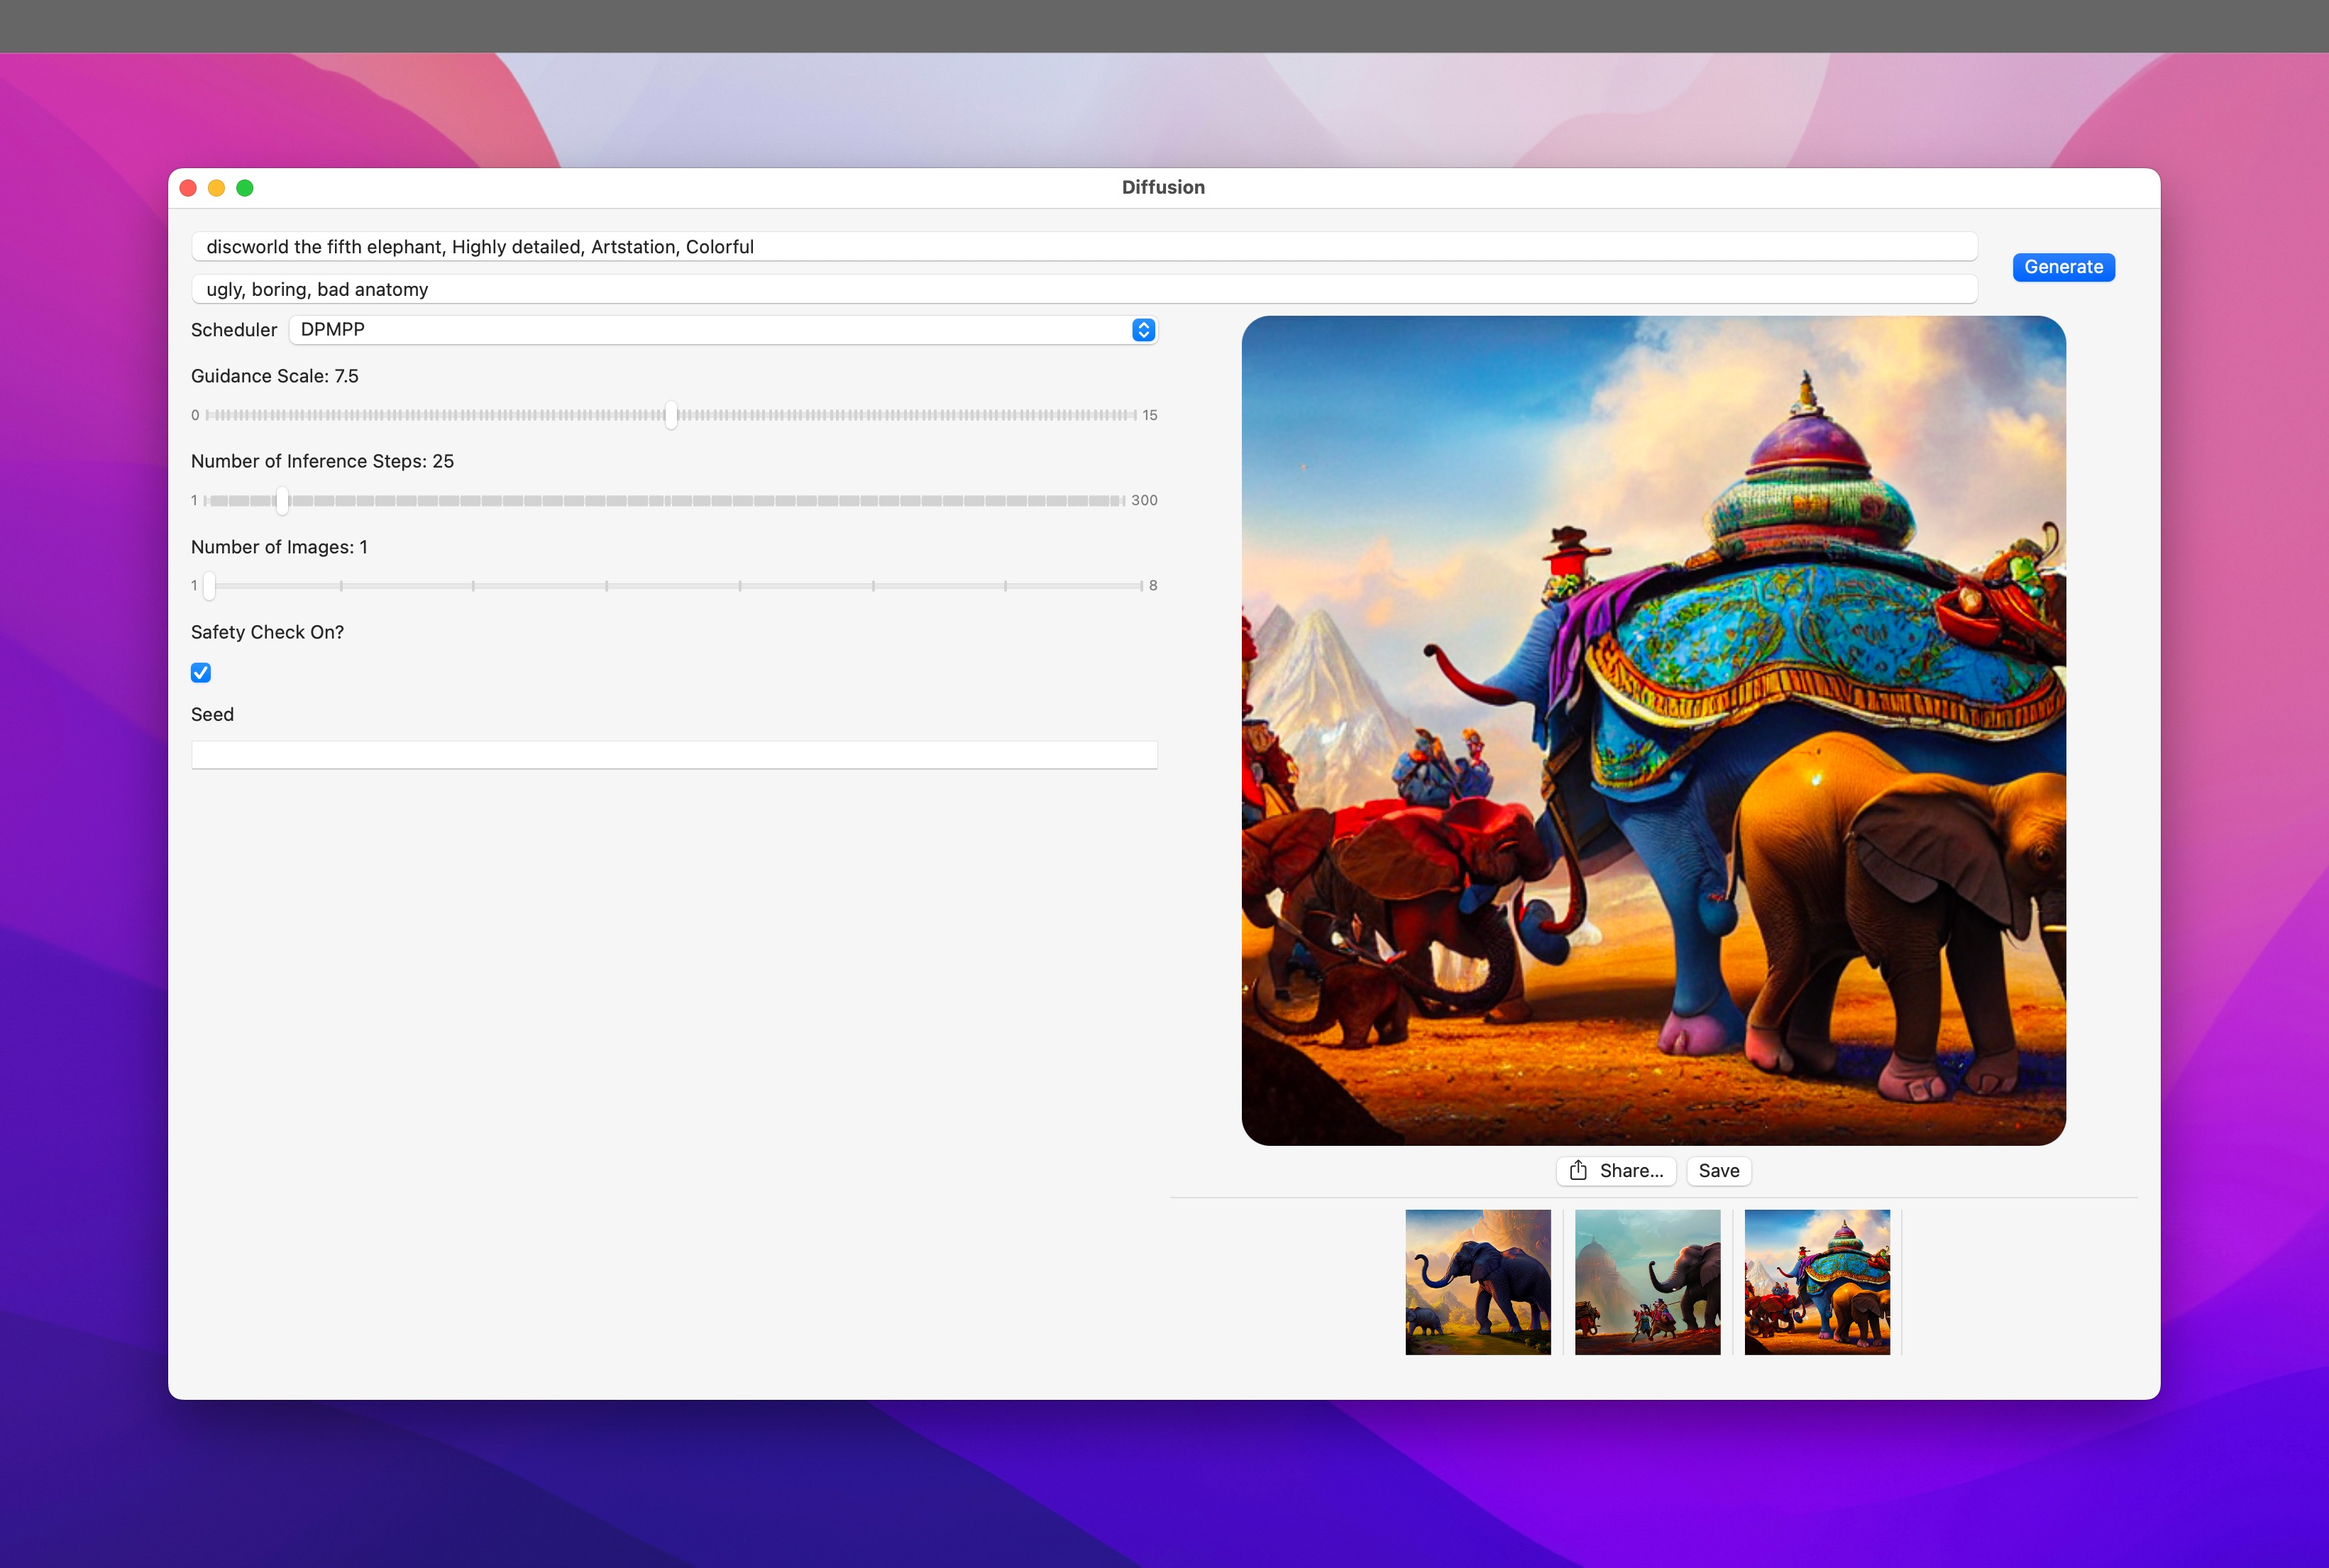
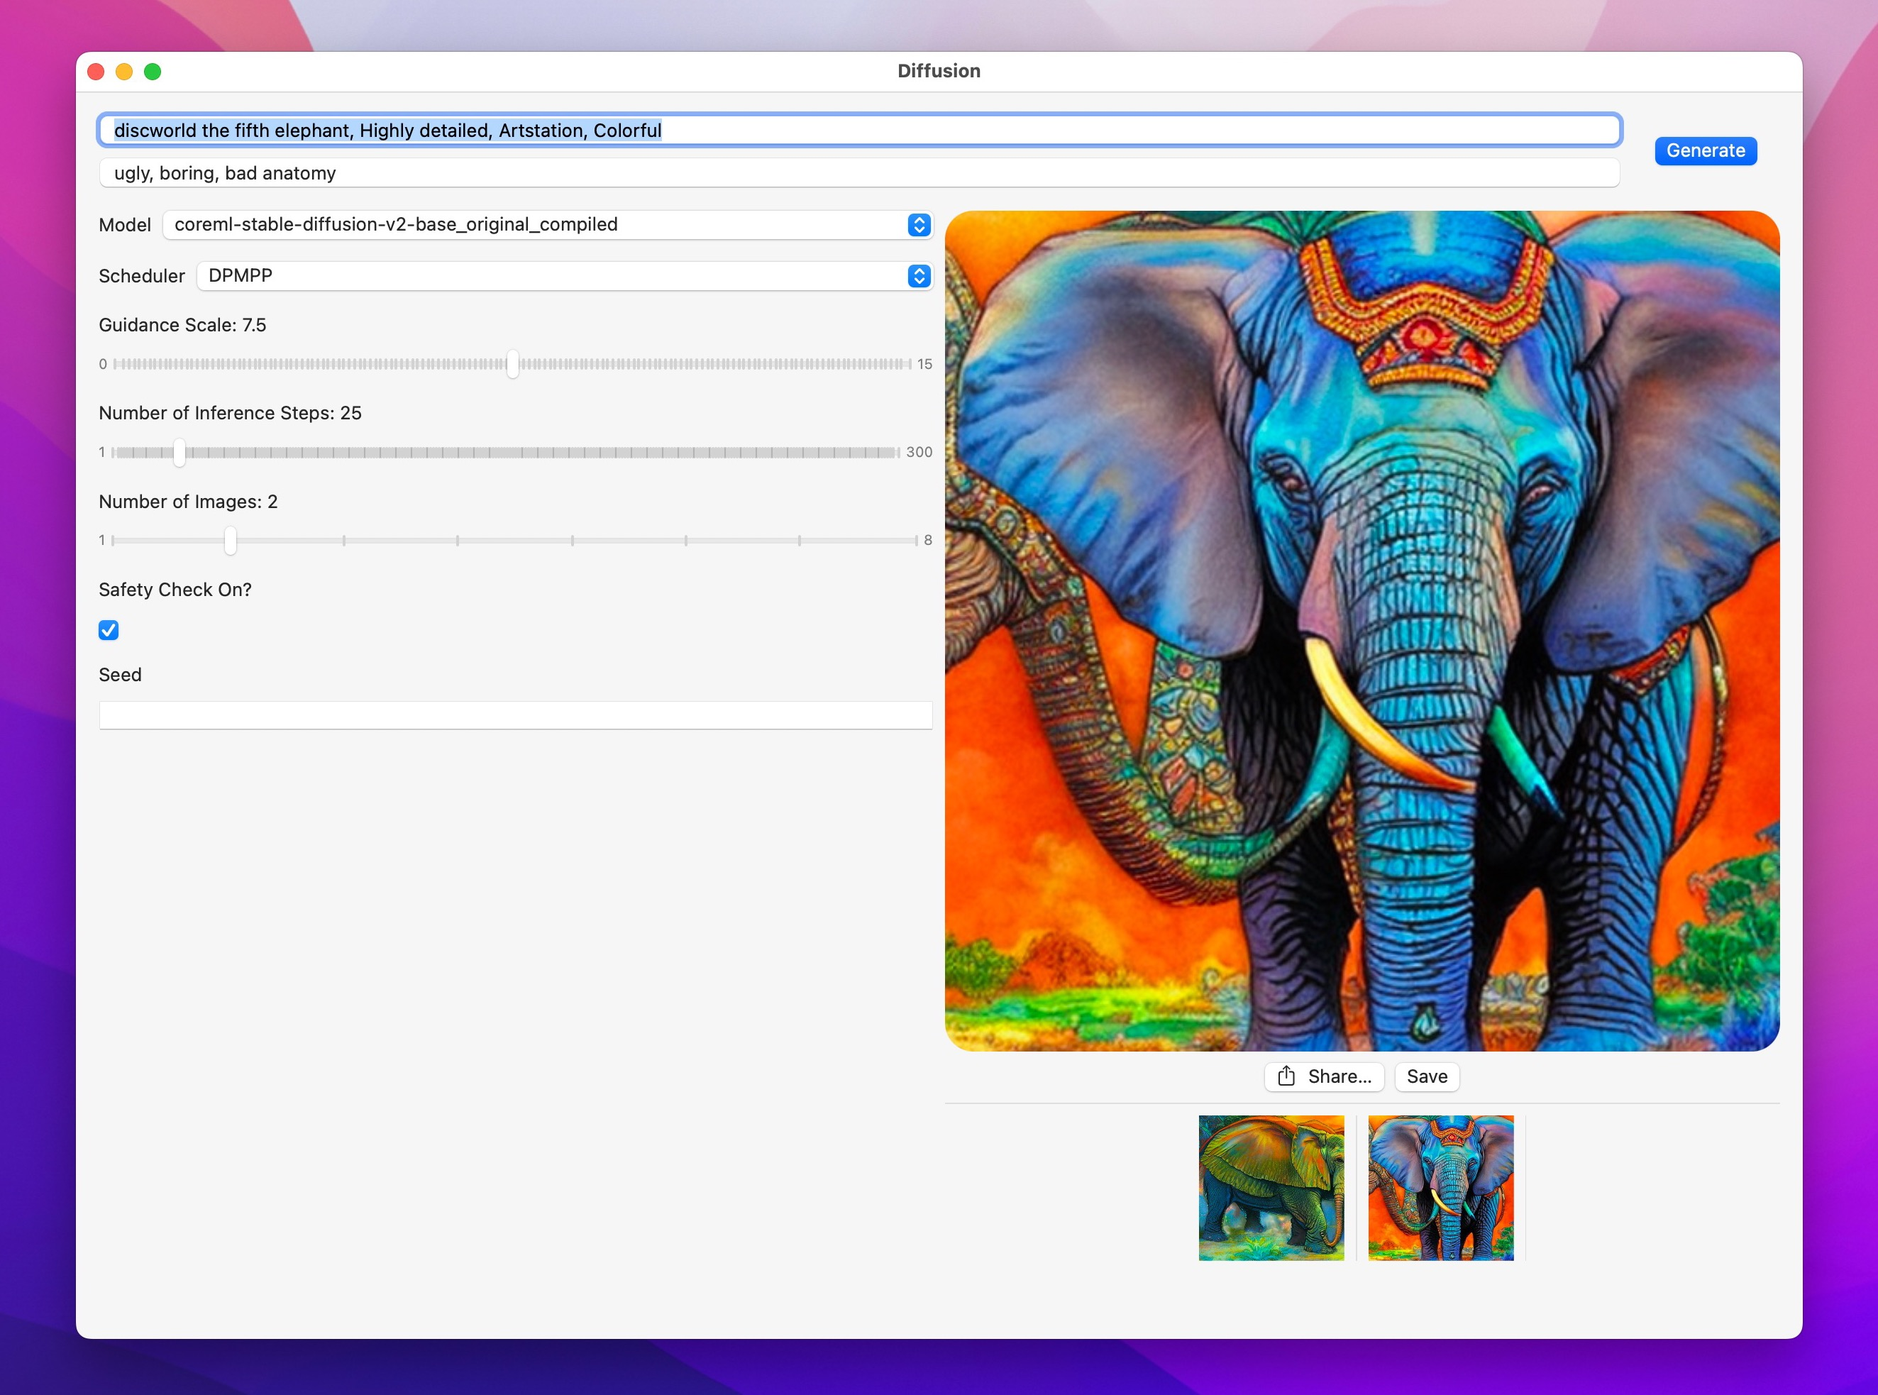
Gallery Switching
* Add being able to switch images via the thumbnail list at the bottom
* Update README image
* Fix model not loading on start

diff --git a/Diffusion/Support/AppState.swift b/Diffusion/Support/AppState.swift
@@ -26,7 +26,9 @@ class AppState: ObservableObject {
 
 	var currentModel: String = "" {
 		didSet {
+			NSLog("*** Model set")
 			Task {
+				NSLog("*** Loading model")
 				await load(model: currentModel)
 			}
 		}
@@ -61,7 +63,12 @@ class AppState: ObservableObject {
 			state = .error("No models found under model directory: \(dir.path)")
 			return
 		}
-		currentModel = model
+		NSLog("*** Setting model")
+		self.currentModel = model
+		// On start, didSet does not appear to fire
+		Task {
+			await load(model: currentModel)
+		}
 	}
 	
 	func load(model: String) async {

diff --git a/Diffusion/Views/MainAppView.swift b/Diffusion/Views/MainAppView.swift
@@ -144,8 +144,11 @@ struct MainAppView: View {
 					if images.count > 0 {
 						ScrollView {
 							HStack {
-								ForEach(images, id: \.self) { i in
-									Image(i, scale: 5, label: Text(""))
+								ForEach(Array(images.enumerated()), id: \.offset) { i, img in
+									Image(img, scale: 5, label: Text(""))
+										.onTapGesture {
+											selectImage(index: i)
+										}
 									Divider()
 								}
 							}
@@ -215,6 +218,10 @@ struct MainAppView: View {
 				}
 			}
 		}
+	}
+	
+	private func selectImage(index: Int) {
+		image = images[index]
 	}
 }
 
